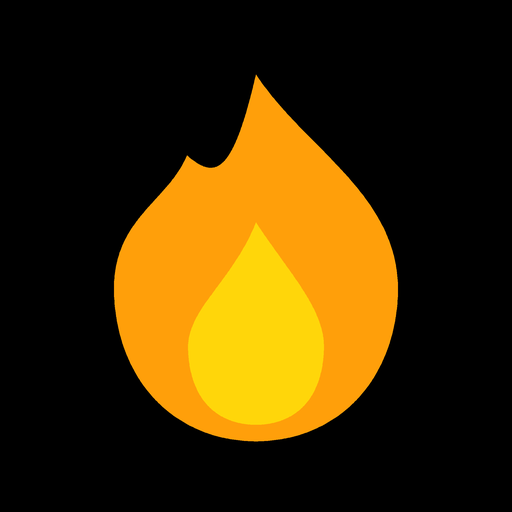
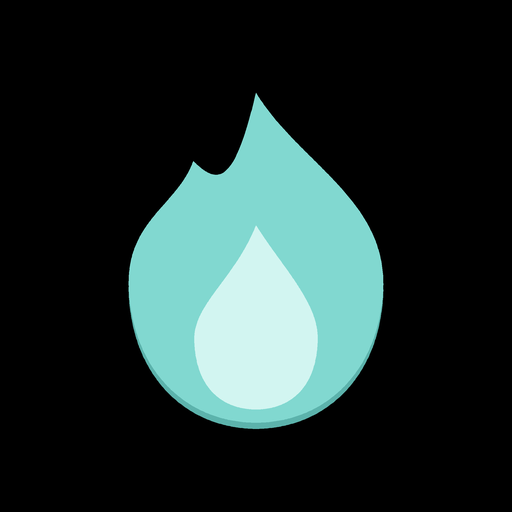
Nová ikona: plamen v Tiffany Blue na černém + doplněné soubory pro plochu
- Ikony 180/192/512/1024, maskable a favicon v novém stylu (shodném s appkou Trénink)
- Do kořene doplněny manifest.webmanifest, sw.js, .nojekyll a README ze zipu,
  na které se index.html odkazoval, ale v repu chyběly
- Odkazy na ikony s ?v=2 a cache service workeru 90days-v3, aby se nebraly staré

Claude-Session: https://claude.ai/code/session_01125fAZs4bJzJjWL3HVsvwH

Changed region(s): [[0.2188, 0.1562, 0.7812, 0.875]]

diff --git a/sw.js b/sw.js
@@ -1,0 +1,38 @@
+/* 90days challenge – offline cache.
+   Nejdřív síť, ať máš vždy aktuální verzi; při výpadku se sáhne do cache. */
+const CACHE = "90days-v3";
+const FILES = [
+  "./", "./index.html", "./manifest.webmanifest",
+  "./icon-180.png?v=2", "./icon-192.png?v=2", "./icon-512.png?v=2",
+  "./icon-512-maskable.png?v=2", "./favicon-64.png?v=2"
+];
+
+self.addEventListener("install", e => {
+  e.waitUntil(
+    caches.open(CACHE)
+      .then(c => c.addAll(FILES))
+      .catch(() => {})
+      .then(() => self.skipWaiting())
+  );
+});
+
+self.addEventListener("activate", e => {
+  e.waitUntil(
+    caches.keys()
+      .then(ks => Promise.all(ks.filter(k => k !== CACHE).map(k => caches.delete(k))))
+      .then(() => self.clients.claim())
+  );
+});
+
+self.addEventListener("fetch", e => {
+  if (e.request.method !== "GET") return;
+  e.respondWith(
+    fetch(e.request)
+      .then(r => {
+        const copy = r.clone();
+        caches.open(CACHE).then(c => c.put(e.request, copy)).catch(() => {});
+        return r;
+      })
+      .catch(() => caches.match(e.request).then(r => r || caches.match("./index.html")))
+  );
+});

diff --git a/index.html b/index.html
@@ -9,9 +9,9 @@
 <meta name="apple-mobile-web-app-title" content="90days">
 <meta name="theme-color" content="#000000">
 <link rel="manifest" href="./manifest.webmanifest">
-<link rel="apple-touch-icon" href="./icon-180.png">
-<link rel="icon" type="image/png" sizes="192x192" href="./icon-192.png">
-<link rel="icon" type="image/png" sizes="64x64" href="./favicon-64.png">
+<link rel="apple-touch-icon" href="./icon-180.png?v=2">
+<link rel="icon" type="image/png" sizes="192x192" href="./icon-192.png?v=2">
+<link rel="icon" type="image/png" sizes="64x64" href="./favicon-64.png?v=2">
 <title>90days challenge</title>
 <style>
 :root{

diff --git a/README.md b/README.md
@@ -1,0 +1,64 @@
+# 90days challenge 🔥
+
+Devadesátidenní výzva jako webová aplikace. Bez účtu, bez serveru, bez závislostí — jeden HTML soubor, který běží i offline a dá se přidat na plochu telefonu.
+
+## Co to umí
+
+Před spuštěním projdeš sedm otázek: cíl na 90 dní, důvod, proč to dokončíš, tři denní aktivity, týdenní a měsíční odměna, odměna za dokončení a trest za nedokončení. Teprve pak výzva začne běžet.
+
+Pak máš tři obrazovky:
+
+- **Dnes** — tři aktivity k odškrtnutí, prstenec s postupem, série dnů v řadě a připomínka toho, proč jsi začal. Když odškrtneš všechny tři, den se uzavře.
+- **Progres** — 90 bublinek ve třech měsíčních blocích. Ťuknutím den odškrtneš nebo odškrtnutí zrušíš. Budoucí dny jsou zamčené.
+- **Vize** — všechny odpovědi z úvodu, stav plnění odměn a záloha dat. Cokoli se dá dodatečně přepsat.
+- **Historie** — uzavřené výzvy. Po 90. dni se běžící výzva uloží celá: cíl, důvod, denní aktivity, odměny, trest, počet splněných dnů a mřížka průběhu. Kdykoli se do ní dá nahlédnout a porovnat, co sis tehdy dal za cíl.
+
+Víkendy jsou dobrovolné: nepřerušují sérii a nepočítají se do zmeškaných dnů. Odměna se odemkne po týdnu nebo měsíci, ve kterém nechybí ani jeden povinný den.
+
+Výzva se uzavře po 90. dni, nebo jakmile máš odškrtnuté všechny povinné dny. Pak stačí ťuknout na *Uložit do historie a začít novou* a průvodce se spustí znovu — historie zůstává. Ukončit ji jde i předčasně přes **Vize → Ukončit výzvu předčasně**, s uložením do historie nebo bez něj.
+
+## Nasazení na GitHub Pages
+
+1. Založ nový repozitář, například `90days`.
+2. Nahraj do něj celý obsah této složky (`index.html`, `manifest.webmanifest`, `sw.js`, ikony a `.nojekyll`). Soubory musí ležet v kořeni repozitáře, ne v podsložce.
+3. V repozitáři otevři **Settings → Pages**, v sekci *Build and deployment* zvol zdroj **Deploy from a branch**, větev `main` a složku `/ (root)`. Ulož.
+4. Za minutu nebo dvě poběží web na `https://<tvuj-ucet>.github.io/90days/`.
+
+Přes příkazovou řádku:
+
+```bash
+git init
+git add .
+git commit -m "90days challenge"
+git branch -M main
+git remote add origin https://github.com/<tvuj-ucet>/90days.git
+git push -u origin main
+```
+
+## Přidání na plochu iPhonu
+
+Otevři adresu v Safari, ťukni na ikonu sdílení a zvol **Přidat na plochu**. Aplikace se spustí na celou obrazovku s ikonou plamene a poběží i bez signálu.
+
+Na Androidu nabídne Chrome instalaci sám, případně přes menu **Přidat na plochu**.
+
+## Kde jsou data
+
+Všechno se ukládá lokálně v prohlížeči (`localStorage`) pod klíčem `vyzva90` — běžící výzva i celá historie uzavřených výzev. Nikam se nic neodesílá.
+
+Data aplikace přidané na plochu drží iOS odděleně od Safari a nemaže je po sedmi dnech nečinnosti jako běžné weby v prohlížeči. I tak si dělej zálohu: **Vize → Záloha a obnovení** vypíše celý obsah jako text, který si zkopíruješ a v případě potřeby vložíš zpátky. Před tlačítkem *Začít novou výzvu* to udělej vždycky.
+
+Odinstalování aplikace z plochy data smaže.
+
+## Aktualizace
+
+Service worker (`sw.js`) tahá soubory nejdřív ze sítě, takže po pushnutí změn stačí aplikaci zavřít a znovu otevřít. Když měníš seznam souborů, zvyš číslo v konstantě `CACHE` v `sw.js`, aby se stará cache zahodila.
+
+## Struktura
+
+```
+index.html               celá aplikace – HTML, CSS i JavaScript
+manifest.webmanifest     název, ikony a barvy pro instalaci na plochu
+sw.js                    offline cache
+icon-*.png               ikony plamene, včetně maskable varianty pro Android
+.nojekyll                vypne zpracování Jekyllem na GitHub Pages
+```
